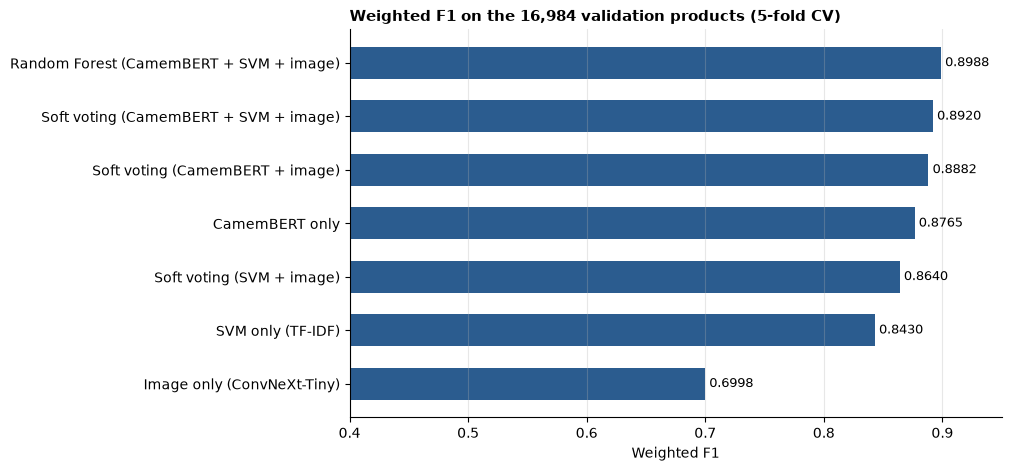
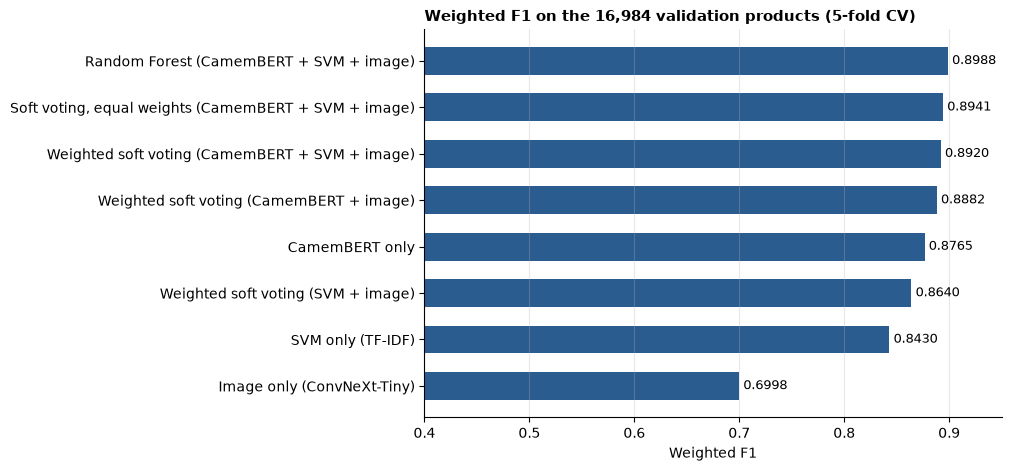
fix(report): compare learned fusion against equal soft voting

diff --git a/reports/project_story/project_story.html b/reports/project_story/project_story.html
@@ -258,7 +258,7 @@ th { color: #6b7280; font-weight: bold; }
       <ul>
         <li>Text carries most of the signal. Images alone are weak but help where text is weak.</li>
         <li>Context matters: CamemBERT beats TF-IDF by 3.4 points, mostly on books.</li>
-        <li>A learned combination beats the best fixed-weight soft voting: 0.8988 against 0.8920.</li>
+        <li>A learned combination beats the best soft voting (equal weights): 0.8988 against 0.8941.</li>
         <li>Several "obvious" ideas did not help when measured: text cleaning, and binary TF-IDF with 50000 features.</li>
       </ul>
       <h3>Business</h3>

diff --git a/scripts/make_project_story.py b/scripts/make_project_story.py
@@ -531,7 +531,7 @@ def build_pages(figs):
       <ul>
         <li>Text carries most of the signal. Images alone are weak but help where text is weak.</li>
         <li>Context matters: CamemBERT beats TF-IDF by 3.4 points, mostly on books.</li>
-        <li>A learned combination beats the best fixed-weight soft voting: {FUSION_BEST_F1:.4f} against 0.8920.</li>
+        <li>A learned combination beats the best soft voting (equal weights): {FUSION_BEST_F1:.4f} against 0.8941.</li>
         <li>Several "obvious" ideas did not help when measured: text cleaning, and binary TF-IDF with 50000 features.</li>
       </ul>
       <h3>Business</h3>
